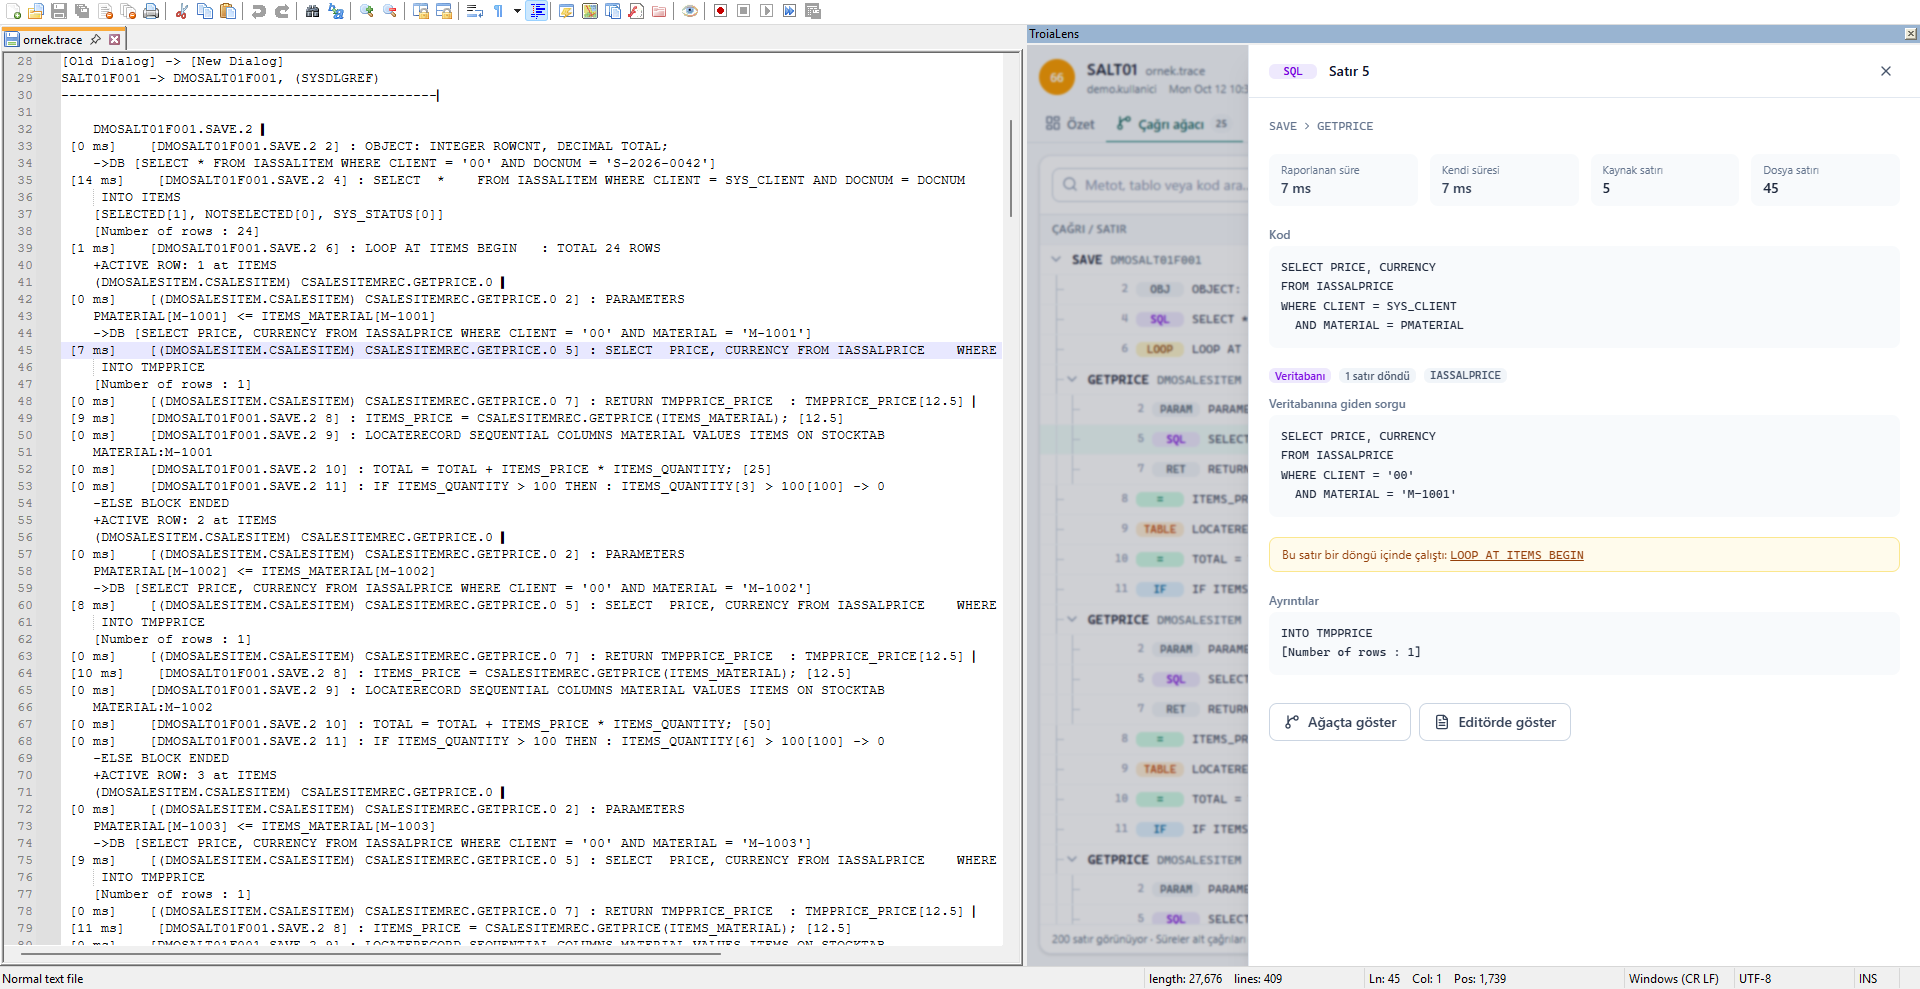
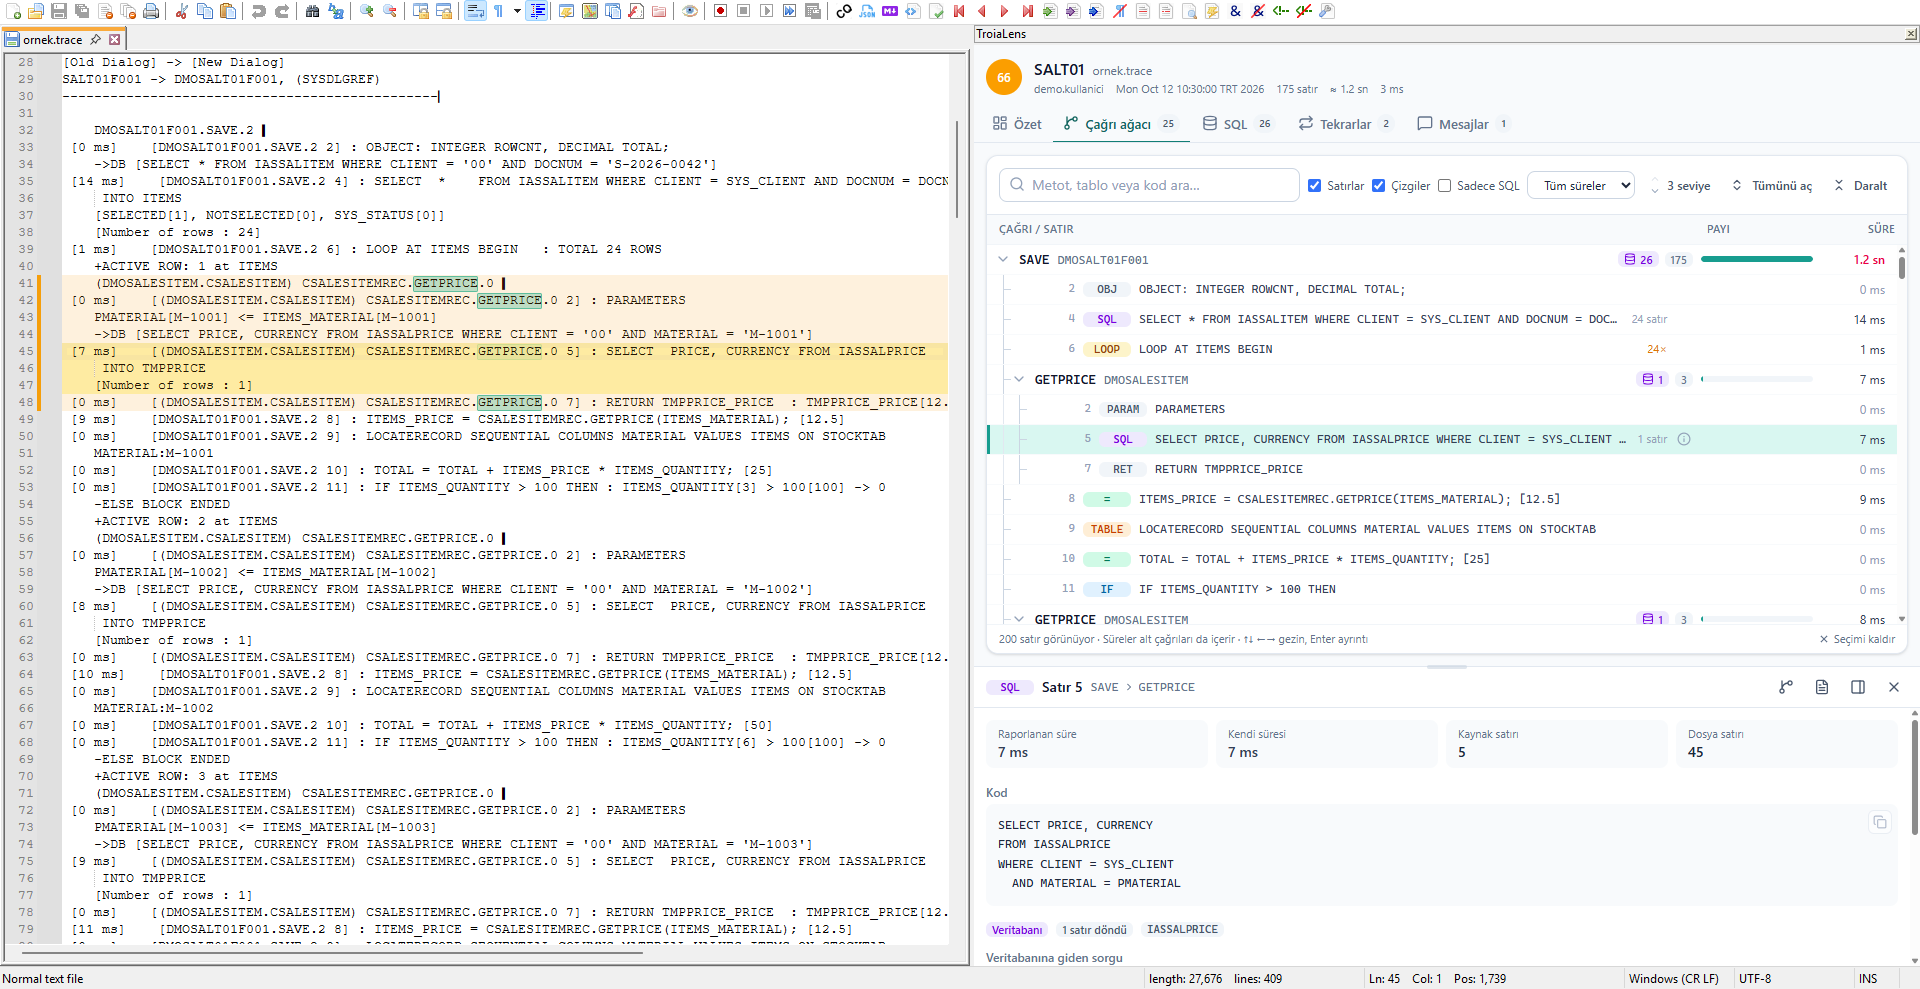
README ve ekran görüntülerini güncelle

diff --git a/README.md b/README.md
@@ -21,7 +21,7 @@ Görüntüler web reposundaki uydurma örnek trace ile alındı.
 | | |
 |---|---|
 | ![Satır detayı](docs/screenshots/npp-light-detail.png) | ![Koyu mod, çağrı ağacı](docs/screenshots/npp-dark-tree.png) |
-| Satır detayı; editör aynı satırda (Ln 45) | Koyu mod; çağrı ağacında seçilen satır editörde |
+| Satır ayrıntısı alt bölmede; editör aynı satırda (Ln 45), metot bloğu sarı | Koyu mod; seçilen satırın bloğu editörde, çift tıklanan kelime pembe |
 | ![Koyu mod, özet](docs/screenshots/npp-dark-overview.png) | |
 | Koyu mod, özet | |
 
@@ -31,6 +31,10 @@ Görüntüler web reposundaki uydurma örnek trace ile alındı.
 - Trace olmayan bir sekmeye geçince otomatik açılan panel gizlenir. Paneli menüden elle açtıysanız açık kalır.
   Bu durumda trace olmayan dosyada "Bu bir Troia trace dosyası değil" mesajı görünür.
 - Panelde bir satıra tıklayınca editör imleci o satıra gider. Detaydaki **Editörde göster** odağı da editöre verir.
+- Çağrı ağacında seçilen satırın metot bloğu editörde açık sarıyla, satırın kendisi koyu sarıyla işaretlenir.
+  Editörde bir kelimeye çift tıklayınca dosyadaki tüm geçişleri ayrı bir renkle işaretlenir.
+- Satır ayrıntısı varsayılan olarak alt bölmede açılır. Başlığındaki düğmeyle ya da menüden sağda kayan panele
+  geçilebilir; seçim kaydedilir.
 - Dosya kaydedilince yeniden analiz edilir. Notepad++ koyu modundaysa panel de koyu açılır.
 - Bir trace sekmesinde paneli kapatırsanız, o sekme için bir daha otomatik açılmaz.
 - Notepad++ kapanırken panel açıksa, bir sonraki açılışta Notepad++ paneli geri getirir.
@@ -43,6 +47,7 @@ Menü: **Eklentiler > TroiaLens**
 | Aktif dosyayı analiz et | Uzantıya bakmadan analiz eder |
 | Trace dosyalarında paneli otomatik aç | Açık / kapalı |
 | Sekme değişince yeniden analiz et | Panel açıkken her sekme değişiminde analiz |
+| Satır ayrıntısını sağda kayan panelde aç | Kapalıysa ayrıntı alt bölmede açılır |
 
 Ayarlar `plugins\config\TroiaLens.ini` içinde:
 
@@ -50,6 +55,7 @@ Ayarlar `plugins\config\TroiaLens.ini` içinde:
 |---|---|---|
 | `AutoOpen` | `1` | Trace uzantılı dosyada paneli otomatik aç |
 | `AnalyzeOnTabSwitch` | `1` | Panel açıkken her sekme değişiminde analiz et |
+| `DetailSlideOver` | `0` | `1` ise satır ayrıntısı sağda kayan panelde açılır |
 | `Extensions` | `.trace` | Trace sayılan uzantılar, `;` ile ayrılır |
 | `DevTools` | `0` | `1` ise panelde F12 geliştirici araçları açılır |
 
@@ -163,17 +169,17 @@ yükleyen bir `AssemblyResolve` işleyicisi kaydeder.
 - `SCI_GETCODEPAGE` 65001 ise metin UTF-8'dir; değilse sistem ANSI kod sayfası (Türkçe Windows'ta 1254) ile
   çözülüp UTF-8'e çevrilir.
 - Sayfanın gönderdiği satır, parser'ın saydığı satırdır (`\r?\n` ile bölünmüş). Scintilla tek başına CR'yi de satır
-  sonu sayar; bu yüzden panelde görünen satır numarası ile Notepad++'ın satır numarası farklı olabilir. Eklenti her
-  analizde `\n` konumlarını tutar, satırı byte konumuna çevirir ve `SCI_GOTOPOS` kullanır. İmleç her zaman doğru
-  satıra gider.
+  sonu sayar. Parser bu CR'lerin yerini tutar; panel "Dosya satırı" olarak Notepad++'ın satır numarasını gösterir.
+  Eklenti her analizde `\n` konumlarını tutar, satırı byte konumuna çevirir ve `SCI_GOTOPOS` kullanır. İmleç her
+  zaman doğru satıra gider.
 - Aynı tampon aynı uzunluktaysa sekme değişiminde yeniden analiz edilmez; panel durumu (sekme, açık detay) korunur.
 
 ### Host ↔ sayfa mesajları
 
 | Yön | Mesaj |
 |---|---|
-| sayfa → host | `{ type: 'ready' }`, `{ type: 'gotoLine', line, focus }`, `{ type: 'reload' }` |
-| host → sayfa | `{ type: 'theme', dark }`, `{ type: 'loadUrl', name, url }`, `{ type: 'notTrace', name }` |
+| sayfa → host | `{ type: 'ready' }`, `{ type: 'gotoLine', line, focus }`, `{ type: 'mark', from, to, line, lineEnd, word }`, `{ type: 'clearMarks' }`, `{ type: 'reload' }`, `{ type: 'setPrefs', detailSlideOver }` |
+| host → sayfa | `{ type: 'theme', dark }`, `{ type: 'prefs', detailSlideOver }`, `{ type: 'loadUrl', name, url }`, `{ type: 'notTrace', name }`, `{ type: 'caret', line }` |
 
 Host, metni ve temayı ancak `ready` geldikten sonra gönderir; sayfa yeniden yüklenirse son durumu tekrar yollar.
 
